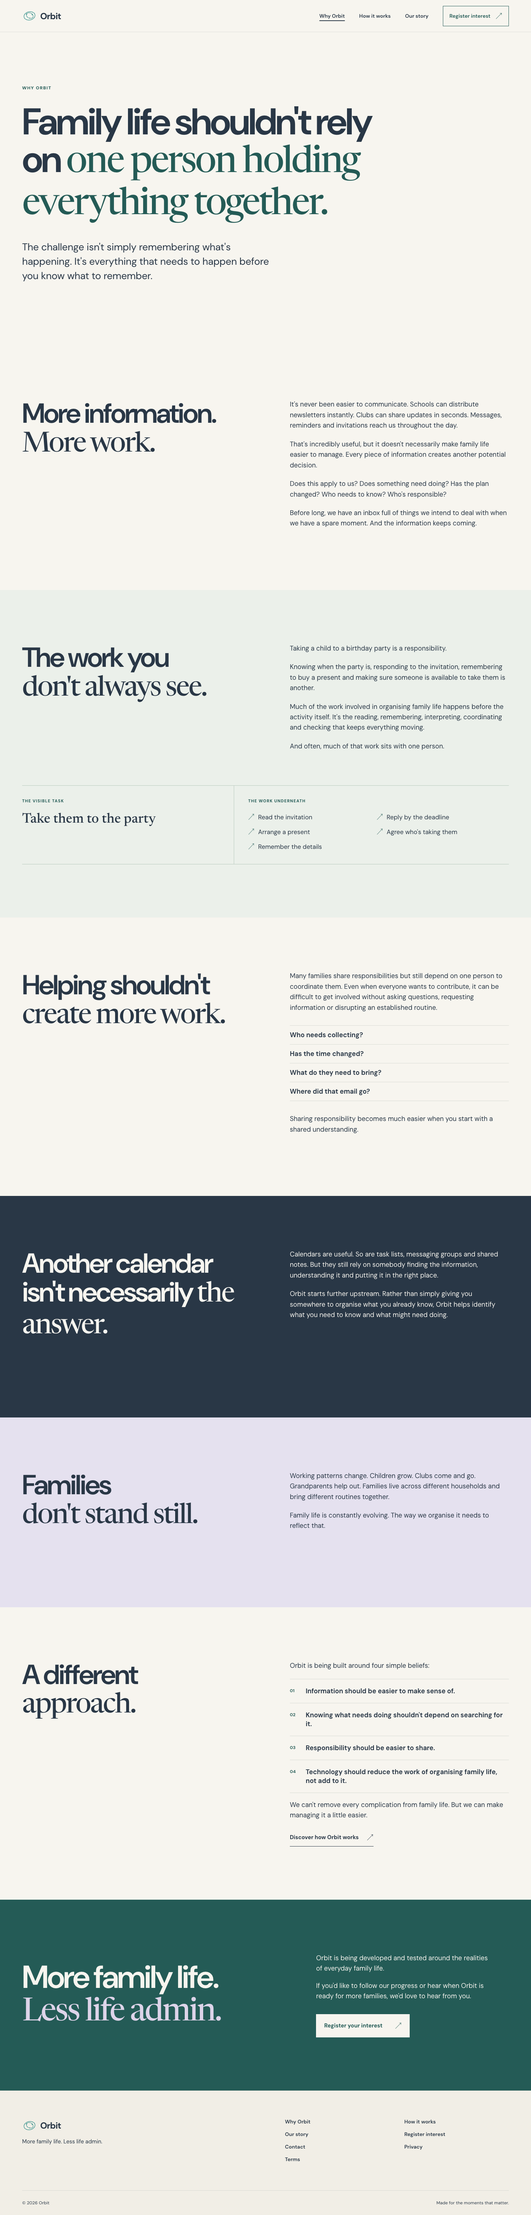
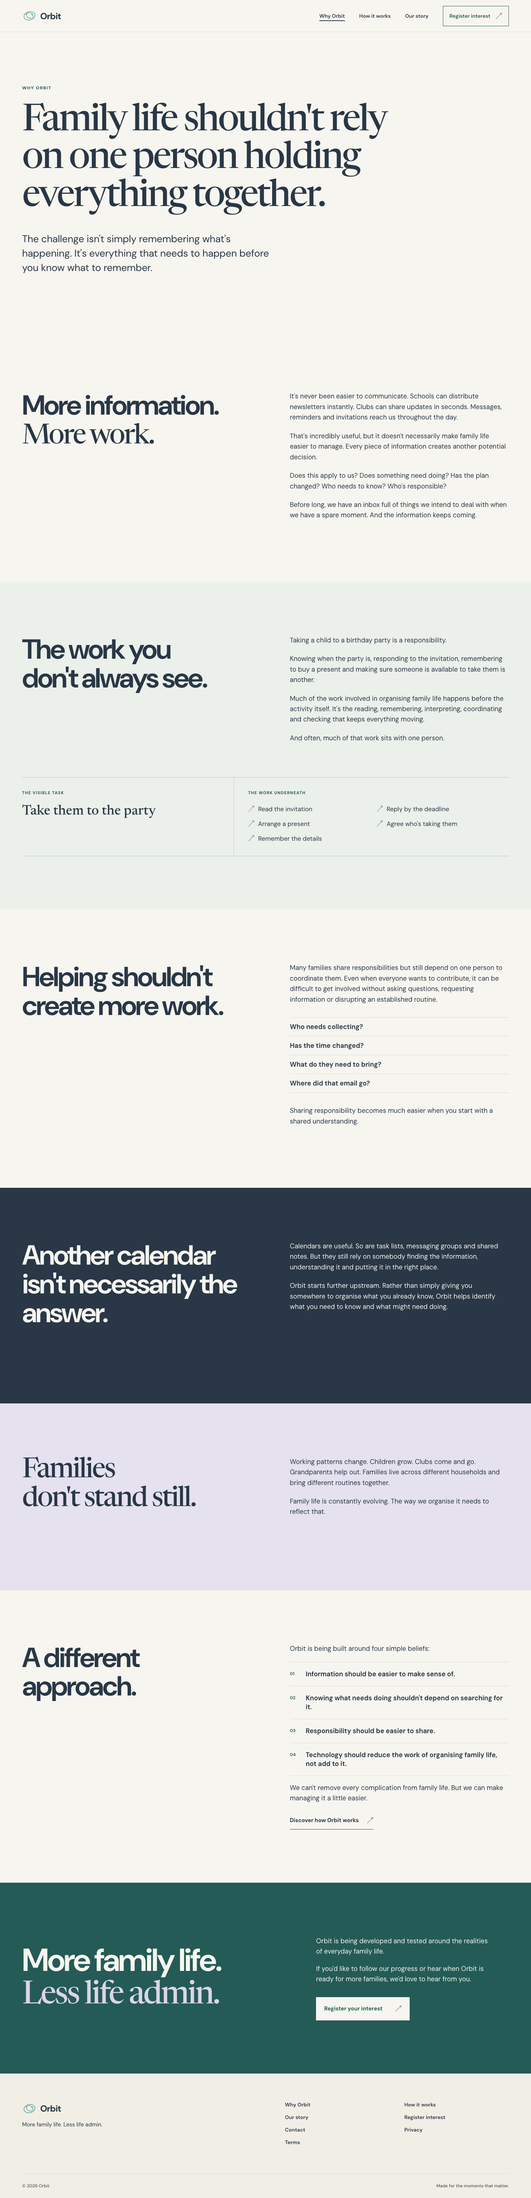
refine founder composition and editorial hero

diff --git a/src/styles.css b/src/styles.css
@@ -1,9 +1,58 @@
 @font-face{font-family:'DM Sans';src:url('./fonts/dm-sans.woff2') format('woff2');font-style:normal;font-weight:100 900;font-display:swap}
 @font-face{font-family:Newsreader;src:url('./fonts/newsreader.ttf') format('truetype');font-style:normal;font-weight:200 900;font-display:swap}
-:root{--ivory:#F7F5EF;--teal:#245B56;--lavender:#CEC8E3;--coral:#E38D77;--ink:#293746;--cream:#FFFDF8;--line:#D9DBD4;--max:1320px}
-*{box-sizing:border-box}html{scroll-behavior:smooth}body{margin:0;background:var(--ivory);color:var(--ink);font-family:'DM Sans',Arial,sans-serif;-webkit-font-smoothing:antialiased}a{color:inherit;text-decoration:none}button{font:inherit}img{display:block;max-width:100%;height:auto}svg{display:block}p{line-height:1.58}h1,h2,h3,p{margin-top:0}h1,h2,h3{letter-spacing:-.045em}h1{font-weight:650}h2{font-weight:600}h2 em,h1 em{font-family:Newsreader,Georgia,serif;font-style:normal;font-weight:450;letter-spacing:-.045em}.wrap{width:min(calc(100% - 96px),var(--max));margin-inline:auto}.skip-link{position:absolute;left:12px;top:-60px;z-index:100;background:var(--ink);color:white;padding:12px 18px}.skip-link:focus{top:12px}:focus-visible{outline:3px solid var(--coral);outline-offset:4px}a,button{touch-action:manipulation}.site-header{position:relative;z-index:20;background:var(--ivory);border-bottom:1px solid rgba(41,55,70,.12)}.nav-shell{min-height:86px;display:flex;align-items:center;justify-content:space-between;gap:24px}.brand{display:inline-flex;align-items:center;gap:9px;font-size:24px;font-weight:700;letter-spacing:-.04em;color:var(--ink);white-space:nowrap}.brand svg{width:40px;height:40px;color:#2F8E88}.brand ellipse{fill:none;stroke:currentColor;stroke-width:3.2}.brand ellipse:nth-child(2){stroke-width:2.6}.brand circle{fill:currentColor}.desktop-nav{display:flex;align-items:center;gap:clamp(18px,2.7vw,42px);font-size:14px;font-weight:600}.desktop-nav a:not(.nav-register){padding:12px 0}.desktop-nav a:hover,.site-footer nav a:hover,.text-link:hover{color:var(--teal)}.desktop-nav a[aria-current=page],.mobile-menu a[aria-current=page]{text-decoration:underline;text-decoration-thickness:2px;text-underline-offset:7px}.nav-register{display:inline-flex;align-items:center;gap:14px;border:1px solid var(--teal);padding:13px 17px;color:var(--teal);white-space:nowrap}.nav-register:hover{background:var(--teal);color:white}.menu-toggle{display:none;background:none;border:0;color:var(--ink);min-height:48px;padding:8px;cursor:pointer}.menu-lines{display:grid;gap:5px}.menu-lines i{display:block;width:22px;height:1.5px;background:currentColor}.mobile-menu[hidden]{display:none}.mobile-menu{display:none}.kicker,.section-index{font-size:12px;line-height:1.3;font-weight:750;letter-spacing:.12em;text-transform:uppercase}.kicker{color:var(--teal);margin-bottom:32px}.section-index{color:var(--teal);margin-bottom:24px}.hero{min-height:730px;display:grid;grid-template-columns:minmax(0,1.1fr) minmax(0,.9fr);align-items:stretch;gap:2vw}.hero-copy{padding:clamp(76px,9vw,136px) 0 90px;position:relative;z-index:2}.hero h1{font-size:clamp(57px,5.2vw,84px);line-height:1.025;max-width:890px;margin-bottom:35px;letter-spacing:-.065em}.hero h1 span{white-space:nowrap}.hero h1 em{color:var(--teal)}.hero-copy>p:not(.kicker){max-width:525px;font-size:18px;line-height:1.55}.hero-copy .hero-lead{font-weight:650}.actions{display:flex;align-items:center;gap:30px;flex-wrap:wrap;margin-top:37px}.button{display:inline-flex;justify-content:space-between;align-items:center;gap:34px;background:var(--teal);color:white;padding:18px 22px;min-height:56px;font-size:15px;font-weight:700;transition:background .2s ease}.button:hover{background:#194641;color:white}.text-link{display:inline-flex;align-items:center;gap:22px;padding-block:10px;border-bottom:1px solid currentColor;font-size:15px;font-weight:700;min-height:44px}.button span,.text-link span,.nav-register span{font-size:18px;font-weight:400}.hero-art{position:relative;min-height:650px;margin-right:calc((min(100vw - 96px,var(--max)) - 100vw)/2);background:#EAE5DB;overflow:hidden}.hero-art:after{content:'';position:absolute;inset:auto 0 0;height:170px;background:linear-gradient(transparent,#EAE5DB);pointer-events:none}.fragments{position:absolute;inset:0;isolation:isolate}.fragment{position:absolute;display:flex;flex-direction:column;gap:8px;padding:20px 22px;background:#FFFDF9;color:var(--ink);border:1px solid rgba(41,55,70,.16);box-shadow:0 14px 22px rgba(41,55,70,.08);font-size:15px;line-height:1.35}.fragment strong{font-size:20px;line-height:1.15;letter-spacing:-.04em}.fragment small{font-size:10px;font-weight:750;letter-spacing:.14em;color:#526762}.fragment-email{width:265px;top:10%;left:2%;transform:rotate(-7deg);z-index:2}.fragment-note{width:228px;top:19%;right:-2%;transform:rotate(7deg);background:#FAE9D4;z-index:3}.fragment-party{width:230px;top:39%;left:20%;transform:rotate(4deg);background:#E8E2F0;z-index:4}.fragment-chat{width:220px;top:57%;right:-3%;transform:rotate(-5deg);background:#E8F0EA;z-index:5}.fragment-list{width:168px;top:70%;left:5%;transform:rotate(-9deg);background:#F9F6EC;z-index:3}.fragment-slip{width:195px;top:80%;right:10%;transform:rotate(8deg);background:#F5C8B7;z-index:6}.fragment-slip strong{font-size:17px}.hero-art-caption{position:absolute;bottom:30px;left:32px;z-index:7;color:var(--ink);font-size:12px;line-height:1.25;font-weight:700;text-transform:uppercase;letter-spacing:.1em}.section{padding-block:clamp(95px,10vw,160px)}.section-ivory{background:var(--ivory)}.section-calm{background:#EBF0EA}.section-ink{background:var(--ink);color:#F7F5EF}.section-lavender{background:#E5E1EF}.editorial-grid,.reading-grid{display:grid;grid-template-columns:1fr 1fr;gap:10%;align-items:start}.section h2{font-size:clamp(46px,5.2vw,78px);line-height:1.04}.prose{font-size:18px;max-width:650px}.prose p{margin-bottom:22px}.fragment-line{display:flex;justify-content:space-between;gap:10px;flex-wrap:wrap;margin-top:80px}.fragment-line span{font-size:13px;font-weight:700;background:#EFECE3;border:1px solid #D6D2C7;padding:13px 16px;transform:rotate(-3deg)}.fragment-line span:nth-child(even){transform:rotate(3deg)}.fragment-line span:nth-child(3){background:#F3DFD4}.calm-grid{display:grid;grid-template-columns:1fr 1fr;gap:12%;align-items:center}.calm-copy{max-width:600px}.calm-copy>p:not(.section-index){font-size:18px;line-height:1.58}.product-slot{min-height:470px;background:#F7F5EF;border:1px dashed #8EADA4;display:flex;flex-direction:column;align-items:center;justify-content:center;text-align:center;padding:50px;max-width:480px;margin-inline:auto;color:#476861}.product-slot .slot-mark{font-size:80px;font-family:Newsreader;line-height:1;color:var(--teal)}.product-slot span{font-weight:750;font-size:19px}.product-slot p{max-width:260px;font-size:14px;margin-top:15px}.responsibility-grid{display:grid;grid-template-columns:1.3fr .7fr;gap:10%}.section-ink .section-index{color:#B6CFC7}.section-ink .text-link:hover{color:#D9CDEB}.responsibility-visual{display:grid;grid-template-columns:1fr 1fr 1fr;gap:0;margin-top:90px;border-top:1px solid #71818A;border-bottom:1px solid #71818A}.responsibility-visual>div{padding:28px 22px 30px;min-height:130px;font-size:20px;line-height:1.2;font-weight:650}.responsibility-visual>div:not(:last-child){border-right:1px solid #71818A}.responsibility-visual span{display:block;font-size:13px;font-weight:400;margin-top:15px;line-height:1.4;color:#D4DBD9}.visual-work{background:#455460}.visual-outcome{background:var(--teal)}.family-grid{display:grid;grid-template-columns:1fr 1fr;gap:12%}.story-teaser{background:#F0E9DD}.story-teaser-grid{display:grid;grid-template-columns:.9fr 1.1fr;gap:13%;align-items:center}.photo-link{display:block;max-width:530px;overflow:hidden}.photo-link img{width:100%;object-fit:cover;aspect-ratio:1.08}.story-teaser-grid p:not(.section-index){font-size:18px;max-width:570px}.closing{padding-block:clamp(100px,10vw,155px);background:var(--teal);color:#F7F5EF}.closing-grid{display:grid;grid-template-columns:1.1fr .9fr;gap:12%;align-items:center}.closing h2{font-size:clamp(55px,6vw,92px);line-height:1.02;margin:0}.closing h2 em{color:#DDD4E9}.closing p{font-size:18px;max-width:480px}.closing .button{background:var(--ivory);color:var(--teal);margin-top:16px}.closing .button:hover{background:white}.site-footer{background:#F1EEE6;padding:75px 0 25px}.footer-grid{display:grid;grid-template-columns:1fr 1fr;gap:8%}.site-footer .brand{margin-bottom:12px}.site-footer p{font-size:15px}.site-footer nav{display:grid;grid-template-columns:repeat(2,minmax(0,1fr));gap:16px 40px;font-size:14px;font-weight:600}.footer-bottom{display:flex;justify-content:space-between;border-top:1px solid #D8D9D2;padding-top:25px;margin-top:75px;font-size:12px}.page-hero{padding-block:clamp(95px,10vw,150px)}.page-hero h1{font-size:clamp(62px,7vw,112px);line-height:1.02;max-width:1050px;margin-bottom:40px}.page-hero h1 em{color:var(--teal)}.page-intro{font-size:clamp(21px,2vw,27px);line-height:1.45;max-width:700px}.reading-grid h2{max-width:620px}.question-lines{display:grid;gap:0;margin:34px 0;border-top:1px solid var(--line)}.question-lines span{border-bottom:1px solid var(--line);padding:13px 0;font-weight:650}.work-diagram{display:grid;grid-template-columns:1fr 1.3fr;margin-top:70px;border-top:1px solid #B8C9BD;border-bottom:1px solid #B8C9BD}.work-diagram>div{padding:34px 38px 34px 0}.work-diagram>div+div{border-left:1px solid #B8C9BD;padding-left:38px}.diagram-label{display:block;font-size:11px;font-weight:750;letter-spacing:.11em;text-transform:uppercase;margin-bottom:24px;color:var(--teal)}.work-diagram strong{font-family:Newsreader;font-weight:500;font-size:37px;line-height:1.1}.work-diagram ul{list-style:none;padding:0;margin:0;display:grid;grid-template-columns:1fr 1fr;gap:14px 28px;font-size:17px}.work-diagram li:before{content:'↗';margin-right:10px;color:var(--teal)}.beliefs{padding:0;list-style:none;counter-reset:belief}.beliefs li{counter-increment:belief;border-top:1px solid var(--line);padding:20px 0 20px 43px;position:relative;font-weight:650}.beliefs li:before{content:'0' counter(belief);position:absolute;left:0;top:23px;color:var(--teal);font-size:12px}.beliefs li:last-child{border-bottom:1px solid var(--line)}.process-heading{margin-bottom:60px}.process-heading h2{max-width:850px}.process-grid{display:grid;grid-template-columns:1.2fr .8fr;gap:12%;align-items:start}.step{display:grid;grid-template-columns:130px 1fr;gap:25px;padding-block:36px;border-top:1px solid #B8C9BD}.step:last-child{border-bottom:1px solid #B8C9BD}.step-number{font-size:12px;font-weight:750;letter-spacing:.1em;text-transform:uppercase;color:var(--teal);padding-top:8px}.step h2{font-size:clamp(34px,3.5vw,49px);margin-bottom:15px}.step p{font-size:17px;line-height:1.6;max-width:600px}.process-aside{position:sticky;top:32px}.process-aside .product-slot{min-height:530px}.process-aside>p{font-size:13px;max-width:470px;margin:13px auto;color:#526762}.two-questions{display:grid;grid-template-columns:1.1fr .9fr;gap:0 12%}.two-questions>*{border-bottom:1px solid #71818A;padding:35px 0}.two-questions h2{font-size:clamp(40px,4.2vw,64px);margin:0}.two-questions p{font-size:18px;max-width:460px}.scenario-grid{display:grid;grid-template-columns:1fr 1fr;gap:70px 10%;margin-top:60px}.scenario-grid article{border-top:1px solid var(--line);padding-top:26px}.scenario-grid h2{font-family:Newsreader;font-size:clamp(35px,3vw,47px);font-weight:500}.scenario-grid p{font-size:17px;max-width:520px}.story-hero{display:grid;grid-template-columns:1.1fr .9fr;gap:10%;align-items:end}.story-hero h1{font-size:clamp(56px,5.4vw,84px);margin-bottom:0}.story-hero img{width:100%;max-width:550px;aspect-ratio:1.1;object-fit:cover}.story-body{max-width:740px;padding-bottom:140px;font-size:19px;line-height:1.68}.story-body .story-opening{font-size:29px;font-weight:650;line-height:1.35}.story-body h2{font-size:clamp(43px,4vw,61px);margin:90px 0 30px;line-height:1.08}.story-signoff{padding-top:45px;border-top:1px solid var(--line);margin-top:70px}.utility-page{max-width:850px;min-height:62vh}.utility-page h1{font-size:clamp(61px,7vw,104px)}.utility-page>p:not(.kicker){font-size:19px;max-width:640px}.utility-page .button{margin-top:25px}.notice{background:#E9EFEA;border-left:4px solid var(--teal);padding:26px 30px;margin-top:35px;max-width:600px}.notice strong{font-size:20px}.notice p{margin:10px 0 0;font-size:16px}
-@media(max-width:1100px){.wrap{width:min(calc(100% - 64px),var(--max))}.desktop-nav{gap:18px}.hero{grid-template-columns:1fr .85fr}.hero h1{font-size:clamp(55px,5.8vw,76px)}.hero h1 span{white-space:normal}.hero-art{margin-right:-32px}.fragment-email{left:-10%}.fragment-party{left:10%}.fragment-list{left:-4%}}
-@media(max-width:850px){.desktop-nav{display:none}.menu-toggle{display:flex;align-items:center;gap:13px}.mobile-menu{display:grid;position:absolute;top:100%;left:0;right:0;background:var(--ivory);border-bottom:1px solid var(--line);padding:10px 32px 26px;box-shadow:0 16px 24px rgba(41,55,70,.08)}.mobile-menu a{display:flex;align-items:center;min-height:52px;border-bottom:1px solid var(--line);font-size:18px;font-weight:650}.mobile-menu .nav-register{justify-content:space-between;border:1px solid var(--teal);margin-top:17px;min-height:54px;padding-inline:18px;color:var(--teal)}.hero{display:block}.hero-copy{padding:82px 0 55px}.hero h1{max-width:760px}.hero-art{margin-inline:-32px;min-height:510px}.fragment-email{left:14%;top:5%}.fragment-note{right:10%;top:14%}.fragment-party{left:31%;top:33%}.fragment-chat{right:7%;top:51%}.fragment-list{left:11%;top:62%}.fragment-slip{right:17%;top:76%}.editorial-grid,.reading-grid,.calm-grid,.family-grid,.story-teaser-grid,.closing-grid,.responsibility-grid,.process-grid,.story-hero{grid-template-columns:1fr;gap:38px}.section h2{margin-bottom:5px}.process-aside{position:static}.product-slot{margin-inline:0}.story-teaser .photo-link{max-width:480px}.story-hero img{max-width:530px}.two-questions{grid-template-columns:1fr 1fr;gap:0 7%}.page-hero h1{font-size:clamp(55px,8vw,85px)}.footer-grid{gap:30px}}
-@media(max-width:600px){.wrap{width:calc(100% - 40px)}.nav-shell{min-height:70px}.brand{font-size:22px}.brand svg{width:36px;height:36px}.mobile-menu{padding-inline:20px}.hero-copy{padding:69px 0 50px}.kicker{margin-bottom:23px}.hero h1{font-size:clamp(47px,12vw,66px);line-height:1.02;margin-bottom:29px}.hero-copy>p:not(.kicker){font-size:17px}.actions{gap:12px;align-items:flex-start;flex-direction:column;margin-top:28px}.hero-art{margin-inline:-20px;min-height:475px}.fragment{padding:13px 15px;gap:5px;font-size:12px}.fragment strong{font-size:16px}.fragment small{font-size:8px}.fragment-email{width:190px;left:-5%;top:6%}.fragment-note{width:169px;right:-3%;top:18%}.fragment-party{width:170px;left:16%;top:38%}.fragment-chat{width:164px;right:-4%;top:55%}.fragment-list{width:126px;left:-3%;top:68%}.fragment-slip{width:137px;right:10%;top:80%}.fragment-slip strong{font-size:14px}.hero-art-caption{left:20px;bottom:19px;font-size:9px}.section{padding-block:85px}.section h2{font-size:clamp(43px,11vw,58px)}.prose,.calm-copy>p:not(.section-index),.story-teaser-grid p:not(.section-index){font-size:17px}.fragment-line{margin-top:45px;justify-content:flex-start}.fragment-line span{font-size:11px;padding:9px 11px}.responsibility-visual{display:block;margin-top:50px}.responsibility-visual>div{min-height:100px;padding:22px 0}.responsibility-visual>div:not(:last-child){border-right:0;border-bottom:1px solid #71818A}.responsibility-visual .visual-work,.responsibility-visual .visual-outcome{padding-inline:20px}.product-slot{min-height:360px;padding:25px}.closing h2{font-size:clamp(52px,12vw,72px)}.closing p{font-size:17px}.site-footer{padding-top:60px}.footer-grid{grid-template-columns:1fr}.site-footer nav{gap:8px 25px}.footer-bottom{margin-top:65px;gap:20px;flex-direction:column}.page-hero{padding-block:80px}.page-hero h1{font-size:clamp(49px,11.5vw,66px);margin-bottom:27px}.page-intro{font-size:20px}.reading-grid{gap:24px}.work-diagram{grid-template-columns:1fr}.work-diagram>div{padding:25px 0}.work-diagram>div+div{border-left:0;border-top:1px solid #B8C9BD;padding-left:0}.work-diagram ul{grid-template-columns:1fr;gap:12px}.step{grid-template-columns:1fr;gap:13px;padding-block:28px}.step h2{font-size:39px}.step p{font-size:16px}.two-questions{display:block}.two-questions h2{border-bottom:0;padding-bottom:0}.two-questions div{padding-top:7px}.scenario-grid{grid-template-columns:1fr;gap:45px;margin-top:35px}.story-hero{gap:40px}.story-body{font-size:18px;padding-bottom:90px}.story-body h2{margin-top:70px}.story-body .story-opening{font-size:26px}.utility-page>p:not(.kicker){font-size:17px}}
+:root{--ivory:#F7F5EF;--teal:#245B56;--lavender:#CEC8E3;--coral:#E38D77;--ink:#293746;--cream:#FFFDF8;--line:#D9DBD4;--max:1320px;--font-body:'DM Sans',Arial,sans-serif;--font-display:Newsreader,Georgia,serif;--heading-sans-weight:650;--heading-editorial-weight:460;--heading-tracking:-.045em;--heading-editorial-tracking:-.05em}
+*{box-sizing:border-box}html{scroll-behavior:smooth}body{margin:0;background:var(--ivory);color:var(--ink);font-family:var(--font-body);-webkit-font-smoothing:antialiased}a{color:inherit;text-decoration:none}button{font:inherit}img{display:block;max-width:100%;height:auto}svg{display:block}p{line-height:1.58}h1,h2,h3,p{margin-top:0}h1,h2,h3{letter-spacing:var(--heading-tracking)}h1{font-weight:var(--heading-sans-weight)}h2{font-weight:600}.heading-sans,.heading-mixed{font-family:var(--font-body);font-weight:var(--heading-sans-weight)}.heading-editorial{font-family:var(--font-display);font-weight:var(--heading-editorial-weight);letter-spacing:var(--heading-editorial-tracking)}.heading-mixed em{font-family:var(--font-display);font-style:normal;font-weight:var(--heading-editorial-weight);letter-spacing:var(--heading-editorial-tracking)}.wrap{width:min(calc(100% - 96px),var(--max));margin-inline:auto}.skip-link{position:absolute;left:12px;top:-60px;z-index:100;background:var(--ink);color:white;padding:12px 18px}.skip-link:focus{top:12px}:focus-visible{outline:3px solid var(--coral);outline-offset:4px}a,button{touch-action:manipulation}.site-header{position:relative;z-index:20;background:var(--ivory);border-bottom:1px solid rgba(41,55,70,.12)}.nav-shell{min-height:86px;display:flex;align-items:center;justify-content:space-between;gap:24px}.brand{display:inline-flex;align-items:center;gap:9px;font-size:24px;font-weight:700;letter-spacing:-.04em;color:var(--ink);white-space:nowrap}.brand svg{width:40px;height:40px;color:#2F8E88}.brand ellipse{fill:none;stroke:currentColor;stroke-width:3.2}.brand ellipse:nth-child(2){stroke-width:2.6}.brand circle{fill:currentColor}.desktop-nav{display:flex;align-items:center;gap:clamp(18px,2.7vw,42px);font-size:14px;font-weight:600}.desktop-nav a:not(.nav-register){padding:12px 0}.desktop-nav a:hover,.site-footer nav a:hover,.text-link:hover{color:var(--teal)}.desktop-nav a[aria-current=page],.mobile-menu a[aria-current=page]{text-decoration:underline;text-decoration-thickness:2px;text-underline-offset:7px}.nav-register{display:inline-flex;align-items:center;gap:14px;border:1px solid var(--teal);padding:13px 17px;color:var(--teal);white-space:nowrap}.nav-register:hover{background:var(--teal);color:white}.menu-toggle{display:none;background:none;border:0;color:var(--ink);min-height:48px;padding:8px;cursor:pointer}.menu-lines{display:grid;gap:5px}.menu-lines i{display:block;width:22px;height:1.5px;background:currentColor}.mobile-menu[hidden]{display:none}.mobile-menu{display:none}.kicker,.section-index{font-size:12px;line-height:1.3;font-weight:750;letter-spacing:.12em;text-transform:uppercase}.kicker{color:var(--teal);margin-bottom:32px}.section-index{color:var(--teal);margin-bottom:24px}.hero{min-height:730px;display:grid;grid-template-columns:minmax(0,1.1fr) minmax(0,.9fr);align-items:stretch;gap:2vw}.hero-copy{padding:clamp(76px,9vw,136px) 0 90px;position:relative;z-index:2}.hero h1{font-size:clamp(57px,5.2vw,84px);line-height:1.025;max-width:890px;margin-bottom:35px;letter-spacing:-.065em}.hero h1 span{white-space:nowrap}.hero h1 em{color:var(--teal)}.hero-copy>p:not(.kicker){max-width:525px;font-size:18px;line-height:1.55}.hero-copy .hero-lead{font-weight:650}.actions{display:flex;align-items:center;gap:30px;flex-wrap:wrap;margin-top:37px}.button{display:inline-flex;justify-content:space-between;align-items:center;gap:34px;background:var(--teal);color:white;padding:18px 22px;min-height:56px;font-size:15px;font-weight:700;transition:background .2s ease}.button:hover{background:#194641;color:white}.text-link{display:inline-flex;align-items:center;gap:22px;padding-block:10px;border-bottom:1px solid currentColor;font-size:15px;font-weight:700;min-height:44px}.button span,.text-link span,.nav-register span{font-size:18px;font-weight:400}.hero-art{position:relative;min-height:650px;margin-right:calc((min(100vw - 96px,var(--max)) - 100vw)/2);background:#EAE5DB;overflow:hidden}.hero-art:after{content:'';position:absolute;inset:auto 0 0;height:95px;background:linear-gradient(transparent,#EAE5DB);pointer-events:none}.fragments{position:absolute;inset:0;isolation:isolate}.fragment{position:absolute;display:flex;flex-direction:column;gap:8px;padding:20px 22px;background:#FFFDF9;color:var(--ink);border:1px solid rgba(41,55,70,.16);box-shadow:0 14px 22px rgba(41,55,70,.08);font-size:15px;line-height:1.35}.fragment strong{font-size:20px;line-height:1.15;letter-spacing:-.04em}.fragment small{font-size:10px;font-weight:750;letter-spacing:.14em;color:#526762}.hero-art-caption{position:absolute;bottom:30px;left:32px;z-index:7;color:var(--ink);font-size:12px;line-height:1.25;font-weight:700;text-transform:uppercase;letter-spacing:.1em}.section{padding-block:clamp(95px,10vw,160px)}.section-ivory{background:var(--ivory)}.section-calm{background:#EBF0EA}.section-ink{background:var(--ink);color:#F7F5EF}.section-lavender{background:#E5E1EF}.editorial-grid,.reading-grid{display:grid;grid-template-columns:1fr 1fr;gap:10%;align-items:start}.section h2{font-size:clamp(46px,5.2vw,78px);line-height:1.04}.prose{font-size:18px;max-width:650px}.prose p{margin-bottom:22px}.fragment-line{display:flex;justify-content:space-between;gap:10px;flex-wrap:wrap;margin-top:80px}.fragment-line span{font-size:13px;font-weight:700;background:#EFECE3;border:1px solid #D6D2C7;padding:13px 16px;transform:rotate(-3deg)}.fragment-line span:nth-child(even){transform:rotate(3deg)}.fragment-line span:nth-child(3){background:#F3DFD4}.calm-grid{display:grid;grid-template-columns:1fr 1fr;gap:12%;align-items:center}.calm-copy{max-width:600px}.calm-copy>p:not(.section-index){font-size:18px;line-height:1.58}.product-slot{min-height:470px;background:#F7F5EF;border:1px dashed #8EADA4;display:flex;flex-direction:column;align-items:center;justify-content:center;text-align:center;padding:50px;max-width:480px;margin-inline:auto;color:#476861}.product-slot .slot-mark{font-size:80px;font-family:Newsreader;line-height:1;color:var(--teal)}.product-slot span{font-weight:750;font-size:19px}.product-slot p{max-width:260px;font-size:14px;margin-top:15px}.responsibility-grid{display:grid;grid-template-columns:1.3fr .7fr;gap:10%}.section-ink .section-index{color:#B6CFC7}.section-ink .text-link:hover{color:#D9CDEB}.responsibility-visual{display:grid;grid-template-columns:1fr 1fr 1fr;gap:0;margin-top:90px;border-top:1px solid #71818A;border-bottom:1px solid #71818A}.responsibility-visual>div{padding:28px 22px 30px;min-height:130px;font-size:20px;line-height:1.2;font-weight:650}.responsibility-visual>div:not(:last-child){border-right:1px solid #71818A}.responsibility-visual span{display:block;font-size:13px;font-weight:400;margin-top:15px;line-height:1.4;color:#D4DBD9}.visual-work{background:#455460}.visual-outcome{background:var(--teal)}.family-grid{display:grid;grid-template-columns:1fr 1fr;gap:12%}.story-teaser{background:#F0E9DD}.story-teaser-grid{display:grid;grid-template-columns:1.1fr .9fr;gap:13%;align-items:center}.photo-link{display:block;max-width:530px;overflow:hidden}.photo-link img{width:100%;object-fit:cover;aspect-ratio:1.08}.story-teaser-grid p:not(.section-index){font-size:18px;max-width:570px}.closing{padding-block:clamp(100px,10vw,155px);background:var(--teal);color:#F7F5EF}.closing-grid{display:grid;grid-template-columns:1.1fr .9fr;gap:12%;align-items:center}.closing h2{font-size:clamp(55px,6vw,92px);line-height:1.02;margin:0}.closing h2 em{color:#DDD4E9}.closing p{font-size:18px;max-width:480px}.closing .button{background:var(--ivory);color:var(--teal);margin-top:16px}.closing .button:hover{background:white}.site-footer{background:#F1EEE6;padding:75px 0 25px}.footer-grid{display:grid;grid-template-columns:1fr 1fr;gap:8%}.site-footer .brand{margin-bottom:12px}.site-footer p{font-size:15px}.site-footer nav{display:grid;grid-template-columns:repeat(2,minmax(0,1fr));gap:16px 40px;font-size:14px;font-weight:600}.footer-bottom{display:flex;justify-content:space-between;border-top:1px solid #D8D9D2;padding-top:25px;margin-top:75px;font-size:12px}.page-hero{padding-block:clamp(95px,10vw,150px)}.page-hero h1{font-size:clamp(62px,7vw,112px);line-height:1.02;max-width:1050px;margin-bottom:40px}.page-hero h1 em{color:var(--teal)}.page-intro{font-size:clamp(21px,2vw,27px);line-height:1.45;max-width:700px}.reading-grid h2{max-width:620px}.question-lines{display:grid;gap:0;margin:34px 0;border-top:1px solid var(--line)}.question-lines span{border-bottom:1px solid var(--line);padding:13px 0;font-weight:650}.work-diagram{display:grid;grid-template-columns:1fr 1.3fr;margin-top:70px;border-top:1px solid #B8C9BD;border-bottom:1px solid #B8C9BD}.work-diagram>div{padding:34px 38px 34px 0}.work-diagram>div+div{border-left:1px solid #B8C9BD;padding-left:38px}.diagram-label{display:block;font-size:11px;font-weight:750;letter-spacing:.11em;text-transform:uppercase;margin-bottom:24px;color:var(--teal)}.work-diagram strong{font-family:Newsreader;font-weight:500;font-size:37px;line-height:1.1}.work-diagram ul{list-style:none;padding:0;margin:0;display:grid;grid-template-columns:1fr 1fr;gap:14px 28px;font-size:17px}.work-diagram li:before{content:'↗';margin-right:10px;color:var(--teal)}.beliefs{padding:0;list-style:none;counter-reset:belief}.beliefs li{counter-increment:belief;border-top:1px solid var(--line);padding:20px 0 20px 43px;position:relative;font-weight:650}.beliefs li:before{content:'0' counter(belief);position:absolute;left:0;top:23px;color:var(--teal);font-size:12px}.beliefs li:last-child{border-bottom:1px solid var(--line)}.process-heading{margin-bottom:60px}.process-heading h2{max-width:850px}.process-grid{display:grid;grid-template-columns:1.2fr .8fr;gap:12%;align-items:start}.step{display:grid;grid-template-columns:130px 1fr;gap:25px;padding-block:36px;border-top:1px solid #B8C9BD}.step:last-child{border-bottom:1px solid #B8C9BD}.step-number{font-size:12px;font-weight:750;letter-spacing:.1em;text-transform:uppercase;color:var(--teal);padding-top:8px}.step h2{font-size:clamp(34px,3.5vw,49px);margin-bottom:15px}.step p{font-size:17px;line-height:1.6;max-width:600px}.process-aside{position:sticky;top:32px}.process-aside .product-slot{min-height:530px}.process-aside>p{font-size:13px;max-width:470px;margin:13px auto;color:#526762}.two-questions{display:grid;grid-template-columns:1.1fr .9fr;gap:0 12%}.two-questions>*{border-bottom:1px solid #71818A;padding:35px 0}.two-questions h2{font-size:clamp(40px,4.2vw,64px);margin:0}.two-questions p{font-size:18px;max-width:460px}.scenario-grid{display:grid;grid-template-columns:1fr 1fr;gap:70px 10%;margin-top:60px}.scenario-grid article{border-top:1px solid var(--line);padding-top:26px}.scenario-grid h2{font-size:clamp(35px,3vw,47px)}.scenario-grid p{font-size:17px;max-width:520px}.story-hero{display:grid;grid-template-columns:1.1fr .9fr;gap:10%;align-items:end}.story-hero h1{font-size:clamp(56px,5.4vw,84px);margin-bottom:0}.story-hero img{width:100%;max-width:550px;aspect-ratio:1.1;object-fit:cover}.story-body{max-width:740px;padding-bottom:140px;font-size:19px;line-height:1.68}.story-body .story-opening{font-size:29px;font-weight:650;line-height:1.35}.story-body h2{font-size:clamp(43px,4vw,61px);margin:90px 0 30px;line-height:1.08}.story-signoff{padding-top:45px;border-top:1px solid var(--line);margin-top:70px}.utility-page{max-width:850px;min-height:62vh}.utility-page h1{font-size:clamp(61px,7vw,104px)}.utility-page>p:not(.kicker){font-size:19px;max-width:640px}.utility-page .button{margin-top:25px}.notice{background:#E9EFEA;border-left:4px solid var(--teal);padding:26px 30px;margin-top:35px;max-width:600px}.notice strong{font-size:20px}.notice p{margin:10px 0 0;font-size:16px}
+@media(max-width:1100px){.wrap{width:min(calc(100% - 64px),var(--max))}.desktop-nav{gap:18px}.hero{grid-template-columns:1fr .85fr}.hero h1{font-size:clamp(55px,5.8vw,76px)}.hero h1 span{white-space:normal}.hero-art{margin-right:-32px}}
+@media(max-width:850px){.desktop-nav{display:none}.menu-toggle{display:flex;align-items:center;gap:13px}.mobile-menu{display:grid;position:absolute;top:100%;left:0;right:0;background:var(--ivory);border-bottom:1px solid var(--line);padding:10px 32px 26px;box-shadow:0 16px 24px rgba(41,55,70,.08)}.mobile-menu a{display:flex;align-items:center;min-height:52px;border-bottom:1px solid var(--line);font-size:18px;font-weight:650}.mobile-menu .nav-register{justify-content:space-between;border:1px solid var(--teal);margin-top:17px;min-height:54px;padding-inline:18px;color:var(--teal)}.hero{display:block}.hero-copy{padding:82px 0 55px}.hero h1{max-width:760px}.hero-art{margin-inline:-32px;min-height:510px}.editorial-grid,.reading-grid,.calm-grid,.family-grid,.story-teaser-grid,.closing-grid,.responsibility-grid,.process-grid,.story-hero{grid-template-columns:1fr;gap:38px}.section h2{margin-bottom:5px}.process-aside{position:static}.product-slot{margin-inline:0}.story-teaser .photo-link{max-width:480px}.story-hero img{max-width:530px}.two-questions{grid-template-columns:1fr 1fr;gap:0 7%}.page-hero h1{font-size:clamp(55px,8vw,85px)}.footer-grid{gap:30px}}
+@media(max-width:600px){.wrap{width:calc(100% - 40px)}.nav-shell{min-height:70px}.brand{font-size:22px}.brand svg{width:36px;height:36px}.mobile-menu{padding-inline:20px}.hero-copy{padding:69px 0 50px}.kicker{margin-bottom:23px}.hero h1{font-size:clamp(47px,12vw,66px);line-height:1.02;margin-bottom:29px}.hero-copy>p:not(.kicker){font-size:17px}.actions{gap:12px;align-items:flex-start;flex-direction:column;margin-top:28px}.hero-art{margin-inline:-20px;min-height:475px}.fragment{padding:13px 15px;gap:5px;font-size:12px}.fragment strong{font-size:16px}.fragment small{font-size:8px}.hero-art-caption{left:20px;bottom:19px;font-size:9px}.section{padding-block:85px}.section h2{font-size:clamp(43px,11vw,58px)}.prose,.calm-copy>p:not(.section-index),.story-teaser-grid p:not(.section-index){font-size:17px}.fragment-line{margin-top:45px;justify-content:flex-start}.fragment-line span{font-size:11px;padding:9px 11px}.responsibility-visual{display:block;margin-top:50px}.responsibility-visual>div{min-height:100px;padding:22px 0}.responsibility-visual>div:not(:last-child){border-right:0;border-bottom:1px solid #71818A}.responsibility-visual .visual-work,.responsibility-visual .visual-outcome{padding-inline:20px}.product-slot{min-height:360px;padding:25px}.closing h2{font-size:clamp(52px,12vw,72px)}.closing p{font-size:17px}.site-footer{padding-top:60px}.footer-grid{grid-template-columns:1fr}.site-footer nav{gap:8px 25px}.footer-bottom{margin-top:65px;gap:20px;flex-direction:column}.page-hero{padding-block:80px}.page-hero h1{font-size:clamp(49px,11.5vw,66px);margin-bottom:27px}.page-intro{font-size:20px}.reading-grid{gap:24px}.work-diagram{grid-template-columns:1fr}.work-diagram>div{padding:25px 0}.work-diagram>div+div{border-left:0;border-top:1px solid #B8C9BD;padding-left:0}.work-diagram ul{grid-template-columns:1fr;gap:12px}.step{grid-template-columns:1fr;gap:13px;padding-block:28px}.step h2{font-size:39px}.step p{font-size:16px}.two-questions{display:block}.two-questions h2{border-bottom:0;padding-bottom:0}.two-questions div{padding-top:7px}.scenario-grid{grid-template-columns:1fr;gap:45px;margin-top:35px}.story-hero{gap:40px}.story-body{font-size:18px;padding-bottom:90px}.story-body h2{margin-top:70px}.story-body .story-opening{font-size:26px}.utility-page>p:not(.kicker){font-size:17px}}
 @media(prefers-reduced-motion:reduce){html{scroll-behavior:auto}*,*:before,*:after{animation-duration:.01ms!important;transition-duration:.01ms!important}}
 .product-image{margin:0;max-width:390px}.product-image img{width:100%;height:auto;border:1px solid #CBD6D1}.product-image figcaption,.screenshot-strip figcaption{font-size:12px;line-height:1.4;color:#526762;margin-top:13px}.screenshot-strip{display:grid;grid-template-columns:1fr 1fr;gap:9%;margin-top:100px}.screenshot-strip figure{margin:0;max-width:390px}.screenshot-strip img{width:100%;height:auto;border:1px solid #CBD6D1}@media(max-width:600px){.screenshot-strip{grid-template-columns:1fr;gap:35px;margin-top:60px}.screenshot-strip figure{max-width:320px}}@media(min-width:601px) and (max-width:850px){.screenshot-strip{margin-top:60px}}
+
+/* Hero information fragments: one deliberately dense cluster, recomposed for small screens. */
+.fragment{padding:14px 17px;gap:5px;font-size:12px;box-shadow:0 10px 18px rgba(41,55,70,.075)}
+.fragment strong{font-size:17px}
+.fragment-email,.fragment-note,.fragment-party{padding:18px 20px;font-size:14px}
+.fragment-email strong,.fragment-note strong,.fragment-party strong{font-size:20px}
+.fragment-school{width:194px;top:2%;left:39%;transform:rotate(9deg);background:#F3F0E9;z-index:1}
+.fragment-email{width:265px;top:11%;left:-1%;transform:rotate(-7deg);z-index:7}
+.fragment-calendar{width:204px;top:4%;right:-9%;transform:rotate(-8deg);background:#E6EEE7;z-index:2}
+.fragment-note{width:228px;top:19%;right:-3%;transform:rotate(8deg);background:#FAE9D4;z-index:8}
+.fragment-payment{width:160px;top:29%;left:3%;transform:rotate(6deg);background:#F3EFE7;z-index:2}
+.fragment-rsvp{width:162px;top:30%;left:40%;transform:rotate(-11deg);background:#F1D6CA;z-index:5}
+.fragment-party{width:230px;top:42%;left:15%;transform:rotate(4deg);background:#E8E2F0;z-index:9}
+.fragment-form{width:185px;top:39%;right:-5%;transform:rotate(-8deg);background:#FFFDF9;z-index:3}
+.fragment-pickup{width:178px;top:50%;left:1%;transform:rotate(-11deg);background:#E7EFEA;z-index:6}
+.fragment-chat{width:220px;top:57%;right:-4%;transform:rotate(-5deg);background:#E8F0EA;z-index:10}
+.fragment-kit{width:179px;top:64%;left:33%;transform:rotate(11deg);background:#F2E8DA;z-index:4}
+.fragment-list{width:168px;top:72%;left:-3%;transform:rotate(-9deg);background:#F9F6EC;z-index:8}
+.fragment-appointment{width:183px;top:72%;right:19%;transform:rotate(-7deg);background:#E7E1EF;z-index:6}
+.fragment-reply{width:158px;top:79%;right:-10%;transform:rotate(8deg);background:#F7F3EA;z-index:4}
+.fragment-bag{width:144px;top:85%;left:27%;transform:rotate(5deg);background:#E9E6D9;z-index:3}
+.fragment-slip{width:195px;top:85%;right:4%;transform:rotate(8deg);background:#F5C8B7;z-index:11}
+.fragment-slip strong{font-size:17px}
+.hero-art-caption{z-index:20}
+@media(max-width:850px){
+  .fragment-email{left:10%}.fragment-note{right:8%}.fragment-party{left:27%}.fragment-chat{right:8%}
+  .fragment-list{left:7%}.fragment-slip{right:16%}.fragment-school{left:44%}.fragment-calendar{right:-2%}
+  .fragment-pickup{left:3%}.fragment-form{right:1%}.fragment-appointment{right:18%}
+}
+@media(max-width:600px){
+  .hero-art{min-height:560px}
+  .fragment{padding:10px 12px;gap:4px;font-size:11px}
+  .fragment strong{font-size:14px}.fragment small{font-size:8px}
+  .fragment-school,.fragment-calendar,.fragment-appointment,.fragment-payment{display:none}
+  .fragment-email{width:190px;top:4%;left:-6%}
+  .fragment-note{width:171px;top:13%;right:-3%}
+  .fragment-rsvp{width:130px;top:27%;left:36%}
+  .fragment-party{width:174px;top:35%;left:8%}
+  .fragment-form{width:146px;top:35%;right:-4%}
+  .fragment-pickup{width:143px;top:49%;left:-6%}
+  .fragment-chat{width:170px;top:54%;right:-5%}
+  .fragment-kit{width:151px;top:63%;left:28%}
+  .fragment-list{width:127px;top:72%;left:-4%}
+  .fragment-bag{width:124px;top:76%;left:35%}
+  .fragment-reply{width:132px;top:67%;right:-10%}
+  .fragment-slip{width:142px;top:83%;right:-3%}
+  .fragment-slip strong{font-size:14px}
+  .hero-art-caption{bottom:16px;left:16px;max-width:138px}
+}

diff --git a/docs/creative-direction.md b/docs/creative-direction.md
@@ -1,7 +1,7 @@
 # Creative direction
 
-The approved concept is **The Weight of Responsibility**, with a visual move from complexity to clarity. The asymmetric homepage hero gathers uneven school, invitation, message and reminder fragments against a spacious headline. Later sections use calmer spacing, actual synthetic-demo product imagery, a simple responsibility diagram and the founder photograph.
+The approved concept is **The Weight of Responsibility**, with a visual move from complexity to clarity. The asymmetric homepage hero gathers sixteen uneven school, invitation, message and reminder fragments against a spacious headline. The centre-right cluster carries the pressure, while selected slips crop at the edges. Later sections use calmer spacing, actual synthetic-demo product imagery, a simple responsibility diagram and the founder photograph.
 
 The fragments are fictional examples, not screenshots. Product captures are genuine tracked images from the Orbit demo and are labelled as such. The founder photograph retains its original framing and natural colour. There is no stock family photography, invented app screen, decorative motion or repeated feature-card grid.
 
-Mobile is intentionally recomposed: the headline and explanation come first, then the fragment field. The page progressively opens into calmer sections. Keep navigation, copy and actions visually clear even where fragments overlap.
+Mobile is intentionally recomposed: the headline and explanation come first, then a denser twelve-fragment field. In the founder teaser, the copy sits to the left of the unchanged photograph on desktop so Ben looks into it; mobile keeps copy before the photo in reading order. The page progressively opens into calmer sections. Keep navigation, copy and actions visually clear even where fragments overlap.

diff --git a/docs/brand-strategy.md b/docs/brand-strategy.md
@@ -5,3 +5,7 @@ Orbit's purpose is to give families less to carry. The public promise is: “Orb
 The audience is adult parents, guardians and carers across varied household arrangements. Use warm, direct British English. Describe family information as fragmented and organisational responsibility as often concentrated. Avoid blaming the person carrying it or the person trying to help. Do not present Orbit as a calendar replacement, generic task manager or AI assistant.
 
 The marketing palette is deep teal `#245B56`, warm ivory `#F7F5EF`, lavender `#CEC8E3`, coral `#E38D77` and deep ink `#293746`. The product's existing teal mark provides continuity. DM Sans carries practical text; upright Newsreader adds editorial warmth. The exact Orbit mark comes from `src/components/OrbitLogo.tsx` in the referenced product revision and the favicon is copied unchanged. The product's implemented CSS, especially its teal and type treatment, took precedence over historical brand notes.
+
+## Heading patterns
+
+Heading tokens and reusable classes live in `src/styles.css`. `heading-mixed` pairs DM Sans with upright Newsreader only across a complete line or clause, as in the homepage and How it works campaign statements. `heading-editorial` sets a whole reflective heading in Newsreader. `heading-sans` keeps a whole explanatory statement in DM Sans. Body copy, navigation, labels and controls remain DM Sans. Choose the pattern for the whole thought before adding line breaks; do not switch faces halfway through a grammatical unit.

diff --git a/docs/review/README.md b/docs/review/README.md
@@ -9,4 +9,6 @@ Captured from the local static build in headless Chrome on 24 November 2026. Ful
 | How it works | [View](how-it-works-375.png) | [View](how-it-works-1440.png) |
 | Our story | [View](our-story-375.png) | [View](our-story-1440.png) |
 
+Focused refinement captures: [hero desktop](home-hero-1440.png), [hero mobile](home-hero-375.png), [founder desktop](home-founder-1440.png), and [founder mobile](home-founder-375.png). The homepage hero now has sixteen information fragments on desktop and twelve on mobile. Ben looks into the copy from the right on desktop.
+
 Additional measured layouts: 390, 768 and 1024 px. No horizontal overflow or broken images at any reviewed width. Mobile menu open/close and Escape dismissal passed. Local links and assets passed `npm run check` (256 checks). See `docs/publication-checklist.md` for remaining blockers.
